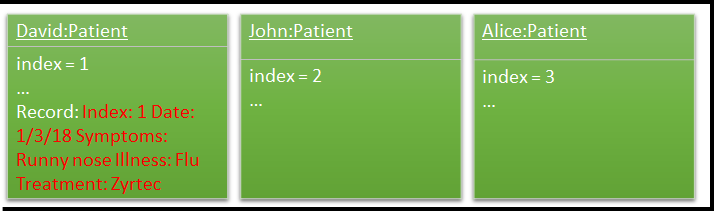
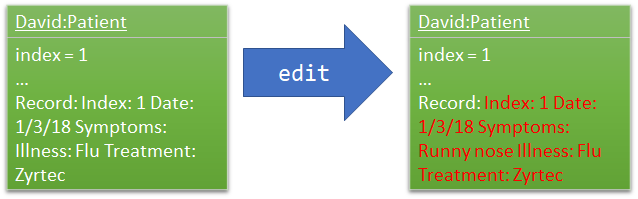
Rebuild pages at 6d4ba2cd5e8fa6bd3e3153dddd8a33125d8fd1f1

diff --git a/DeveloperGuide.html b/DeveloperGuide.html
@@ -873,7 +873,7 @@ edited with the edited patient.</p>
 </div>
 <div class="imageblock">
 <div class="content">
-<img src="images/Figure%203.2.1.1.PNG" alt="Figure 3.2.1.1" width="800">
+<img src="images/Figure%203.2.1.1.png" alt="Figure 3.2.1.1" width="800">
 </div>
 <div class="title">Figure 19. The current queue</div>
 </div>
@@ -887,7 +887,7 @@ which will be based on the user input. This new patient will be stored as the ed
 </div>
 <div class="imageblock">
 <div class="content">
-<img src="images/Figure%203.2.1.2.PNG" alt="Figure 3.2.1.2" width="800">
+<img src="images/Figure%203.2.1.2.png" alt="Figure 3.2.1.2" width="800">
 </div>
 <div class="title">Figure 20. The patient before and after editing</div>
 </div>
@@ -897,7 +897,7 @@ the new list will be as shown in the figure below.</p>
 </div>
 <div class="imageblock">
 <div class="content">
-<img src="images/Figure%203.2.1.3.PNG" alt="Figure 3.2.1.3" width="800">
+<img src="images/Figure%203.2.1.3.png" alt="Figure 3.2.1.3" width="800">
 </div>
 <div class="title">Figure 21. The queue with updated details</div>
 </div>
@@ -1291,23 +1291,30 @@ edited with the edited patient.</p>
 </div>
 <div class="imageblock">
 <div class="content">
-<img src="images/Figure%203.5.1.1.PNG" alt="Figure 3.5.1.1" width="800">
+<img src="images/Figure%203.5.1.1.png" alt="Figure 3.5.1.1" width="800">
 </div>
 <div class="title">Figure 32. The current queue</div>
 </div>
 <div class="paragraph">
-<p>The user now decides to edit the first record of the first person in the list.</p>
-</div>
-<div class="paragraph">
-<p><code>RecordCommand</code> will search for the first person in the list and store it as the person to be edited.
-<code>RecordCommand</code> will then create a new patient with the same attributes as the patient to be edited, except the for the first records
-which will be based on the user input. This new patient will be stored as the edited patient as shown in the figure below.</p>
+<p>The user now decides to edit the first record of the first person in the list. Upon entering the command, a new window will pop up with each field displaying the
+details of the patient&#8217;s current record as shown in the figure below.</p>
 </div>
 <div class="imageblock">
 <div class="content">
-<img src="images/Figure%203.5.1.2.PNG" alt="Figure 3.5.1.2" width="800">
+<img src="images/Figure%203.5.1.2.png" alt="Figure 3.5.1.2" width="800">
 </div>
-<div class="title">Figure 33. The patient before and after editing</div>
+<div class="title">Figure 33. The medical record window</div>
+</div>
+<div class="paragraph">
+<p>After the user hits the enter button or clicks on the confirm button, <code>RecordCommand</code> will search for the first person in the list and store it as the person to be edited.
+<code>RecordCommand</code> will then create a new patient with the same attributes as the patient to be edited, except for the first record
+which will be edited based on the user&#8217;s input into the medical record window. This new patient will be stored as the edited patient as shown in the figure below.</p>
+</div>
+<div class="imageblock">
+<div class="content">
+<img src="images/Figure%203.5.1.3.png" alt="Figure 3.5.1.3" width="800">
+</div>
+<div class="title">Figure 34. The patient before and after editing</div>
 </div>
 <div class="paragraph">
 <p><code>RecordCommand</code> will finally call the for the utility method updatePerson under <code>Model</code>, to replace the patient to be edited with the edited patient,
@@ -1315,9 +1322,9 @@ the new list will be as shown in the figure below.</p>
 </div>
 <div class="imageblock">
 <div class="content">
-<img src="images/Figure%203.5.1.3.PNG" alt="Figure 3.5.1.3" width="800">
+<img src="images/Figure%203.5.1.4.png" alt="Figure 3.5.1.4" width="800">
 </div>
-<div class="title">Figure 34. The queue with updated details</div>
+<div class="title">Figure 35. The queue with updated details</div>
 </div>
 </div>
 <div class="sect3">
@@ -1384,7 +1391,61 @@ each implementation and the pros and cons of each implementation:</p>
 <p>Pros: Will use less memory (no need to create new record object).</p>
 </li>
 <li>
-<p>Cons: Will require a method in Patient to update and verify validity of record. Violates Single Responsibility Principle and Separation of Concerns as <code>Patient</code> now needs to do two different things.</p>
+<p>Cons: Will require a method in Patient to update and verify validity of record. Violates Single Responsibility Principle and
+Separation of Concerns as <code>Patient</code> now needs to do two different things.</p>
+</li>
+</ul>
+</div>
+</li>
+</ul>
+</div>
+</div>
+<div class="sect4">
+<h5 id="aspect-implementation-of-medical-record-entries"><a class="link" href="#aspect-implementation-of-medical-record-entries">Aspect: Implementation of medical record entries</a></h5>
+<div class="ulist">
+<ul>
+<li>
+<p><strong>Alternative 1 (current choice):</strong> Create a new window to display the details of the existing medical record</p>
+<div class="ulist">
+<ul>
+<li>
+<p>Pros:</p>
+<div class="ulist">
+<ul>
+<li>
+<p>Allows user to view the rest of the system while typing into the medical record window.</p>
+</li>
+<li>
+<p>Allows user to have a larger field so that they can check for mistakes in a glance.</p>
+</li>
+</ul>
+</div>
+</li>
+<li>
+<p>Cons:</p>
+<div class="ulist">
+<ul>
+<li>
+<p>May introduce confusion due to  additional window being created.</p>
+</li>
+<li>
+<p>May result in slow speed and memory issues due to  additional window being created.</p>
+</li>
+</ul>
+</div>
+</li>
+</ul>
+</div>
+</li>
+<li>
+<p><strong>Alternative 2:</strong> Allow user to type in full medical record information in the command</p>
+<div class="ulist">
+<ul>
+<li>
+<p>Pros: Will use less memory (no need to create new window).</p>
+</li>
+<li>
+<p>Cons: Will require user to key in the whole medical record in one go (not feasible).</p>
 </li>
 </ul>
 </div>
@@ -1557,7 +1618,7 @@ Alternatively, you can download the AsciiDoc plugin for IntelliJ, which allows y
 <div class="content">
 <img src="images/chrome_save_as_pdf.png" alt="chrome save as pdf" width="300">
 </div>
-<div class="title">Figure 35. Saving documentation as PDF files in Chrome</div>
+<div class="title">Figure 36. Saving documentation as PDF files in Chrome</div>
 </div>
 </div>
 </div>
@@ -2609,7 +2670,7 @@ b. Require developers to download those libraries manually (this creates extra w
 </div>
 <div id="footer">
 <div id="footer-text">
-Last updated 2018-04-10 14:58:10 UTC
+Last updated 2018-04-10 15:02:21 UTC
 </div>
 </div>
 </body>

diff --git a/team/HungSiang.html b/team/HungSiang.html
@@ -245,23 +245,30 @@ edited with the edited patient.</p>
 </div>
 <div class="imageblock">
 <div class="content">
-<img src="../images/Figure%203.5.1.1.PNG" alt="Figure 3.5.1.1" width="800">
+<img src="../images/Figure%203.5.1.1.png" alt="Figure 3.5.1.1" width="800">
 </div>
 <div class="title">Figure 1. The current queue</div>
 </div>
 <div class="paragraph">
-<p>The user now decides to edit the first record of the first person in the list.</p>
-</div>
-<div class="paragraph">
-<p><code>RecordCommand</code> will search for the first person in the list and store it as the person to be edited.
-<code>RecordCommand</code> will then create a new patient with the same attributes as the patient to be edited, except the for the first records
-which will be based on the user input. This new patient will be stored as the edited patient as shown in the figure below.</p>
+<p>The user now decides to edit the first record of the first person in the list. Upon entering the command, a new window will pop up with each field displaying the
+details of the patient&#8217;s current record as shown in the figure below.</p>
 </div>
 <div class="imageblock">
 <div class="content">
-<img src="../images/Figure%203.5.1.2.PNG" alt="Figure 3.5.1.2" width="800">
+<img src="../images/Figure%203.5.1.2.png" alt="Figure 3.5.1.2" width="800">
 </div>
-<div class="title">Figure 2. The patient before and after editing</div>
+<div class="title">Figure 2. The medical record window</div>
+</div>
+<div class="paragraph">
+<p>After the user hits the enter button or clicks on the confirm button, <code>RecordCommand</code> will search for the first person in the list and store it as the person to be edited.
+<code>RecordCommand</code> will then create a new patient with the same attributes as the patient to be edited, except for the first record
+which will be edited based on the user&#8217;s input into the medical record window. This new patient will be stored as the edited patient as shown in the figure below.</p>
+</div>
+<div class="imageblock">
+<div class="content">
+<img src="../images/Figure%203.5.1.3.png" alt="Figure 3.5.1.3" width="800">
+</div>
+<div class="title">Figure 3. The patient before and after editing</div>
 </div>
 <div class="paragraph">
 <p><code>RecordCommand</code> will finally call the for the utility method updatePerson under <code>Model</code>, to replace the patient to be edited with the edited patient,
@@ -269,9 +276,9 @@ the new list will be as shown in the figure below.</p>
 </div>
 <div class="imageblock">
 <div class="content">
-<img src="../images/Figure%203.5.1.3.PNG" alt="Figure 3.5.1.3" width="800">
+<img src="../images/Figure%203.5.1.4.png" alt="Figure 3.5.1.4" width="800">
 </div>
-<div class="title">Figure 3. The queue with updated details</div>
+<div class="title">Figure 4. The queue with updated details</div>
 </div>
 </div>
 <div class="sect3">
@@ -338,7 +345,61 @@ each implementation and the pros and cons of each implementation:</p>
 <p>Pros: Will use less memory (no need to create new record object).</p>
 </li>
 <li>
-<p>Cons: Will require a method in Patient to update and verify validity of record. Violates Single Responsibility Principle and Separation of Concerns as <code>Patient</code> now needs to do two different things.</p>
+<p>Cons: Will require a method in Patient to update and verify validity of record. Violates Single Responsibility Principle and
+Separation of Concerns as <code>Patient</code> now needs to do two different things.</p>
+</li>
+</ul>
+</div>
+</li>
+</ul>
+</div>
+</div>
+<div class="sect4">
+<h5 id="aspect-implementation-of-medical-record-entries"><a class="link" href="#aspect-implementation-of-medical-record-entries">Aspect: Implementation of medical record entries</a></h5>
+<div class="ulist">
+<ul>
+<li>
+<p><strong>Alternative 1 (current choice):</strong> Create a new window to display the details of the existing medical record</p>
+<div class="ulist">
+<ul>
+<li>
+<p>Pros:</p>
+<div class="ulist">
+<ul>
+<li>
+<p>Allows user to view the rest of the system while typing into the medical record window.</p>
+</li>
+<li>
+<p>Allows user to have a larger field so that they can check for mistakes in a glance.</p>
+</li>
+</ul>
+</div>
+</li>
+<li>
+<p>Cons:</p>
+<div class="ulist">
+<ul>
+<li>
+<p>May introduce confusion due to  additional window being created.</p>
+</li>
+<li>
+<p>May result in slow speed and memory issues due to  additional window being created.</p>
+</li>
+</ul>
+</div>
+</li>
+</ul>
+</div>
+</li>
+<li>
+<p><strong>Alternative 2:</strong> Allow user to type in full medical record information in the command</p>
+<div class="ulist">
+<ul>
+<li>
+<p>Pros: Will use less memory (no need to create new window).</p>
+</li>
+<li>
+<p>Cons: Will require user to key in the whole medical record in one go (not feasible).</p>
 </li>
 </ul>
 </div>
@@ -353,7 +414,7 @@ each implementation and the pros and cons of each implementation:</p>
 </div>
 <div id="footer">
 <div id="footer-text">
-Last updated 2018-04-10 14:58:10 UTC
+Last updated 2018-04-10 15:02:21 UTC
 </div>
 </div>
 </body>

diff --git a/LearningOutcomes.html b/LearningOutcomes.html
@@ -561,7 +561,7 @@ class gives some examples of how to use <em>Equivalence Partitions</em>, <em>Bou
 </div>
 <div id="footer">
 <div id="footer-text">
-Last updated 2018-04-10 14:58:10 UTC
+Last updated 2018-04-10 15:02:21 UTC
 </div>
 </div>
 </body>

diff --git a/UsingCoveralls.html b/UsingCoveralls.html
@@ -115,7 +115,7 @@ If you have not set up Travis CI, see <a href="UsingTravis.html">UsingTravis.ado
 </div>
 <div id="footer">
 <div id="footer-text">
-Last updated 2018-04-10 14:58:10 UTC
+Last updated 2018-04-10 15:02:21 UTC
 </div>
 </div>
 </body>

diff --git a/UsingGradle.html b/UsingGradle.html
@@ -261,7 +261,7 @@ See <code>build.gradle</code> &#8594; <code>allprojects</code> &#8594; <code>dep
 </div>
 <div id="footer">
 <div id="footer-text">
-Last updated 2018-04-10 14:58:10 UTC
+Last updated 2018-04-10 15:02:21 UTC
 </div>
 </div>
 </body>

diff --git a/UsingNetlify.html b/UsingNetlify.html
@@ -142,7 +142,7 @@ The publish directory is the directory in which the built HTML documentation res
 </div>
 <div id="footer">
 <div id="footer-text">
-Last updated 2018-04-10 14:58:10 UTC
+Last updated 2018-04-10 15:02:21 UTC
 </div>
 </div>
 </body>

diff --git a/team/johndoe.html b/team/johndoe.html
@@ -563,7 +563,7 @@ If the <code>redoStack</code> is empty, then there are no other commands left to
 </div>
 <div id="footer">
 <div id="footer-text">
-Last updated 2018-04-10 14:58:10 UTC
+Last updated 2018-04-10 15:02:21 UTC
 </div>
 </div>
 </body>

diff --git a/UsingTravis.html b/UsingTravis.html
@@ -299,7 +299,7 @@ Suggested change: Remove the codacy badge from <code>README</code>.</p>
 </div>
 <div id="footer">
 <div id="footer-text">
-Last updated 2018-04-10 14:58:10 UTC
+Last updated 2018-04-10 15:02:21 UTC
 </div>
 </div>
 </body>

diff --git a/team/cxingkai.html b/team/cxingkai.html
@@ -232,7 +232,7 @@ each implementation and the pros and cons of each implementation:</p>
 </div>
 <div id="footer">
 <div id="footer-text">
-Last updated 2018-04-10 14:58:10 UTC
+Last updated 2018-04-10 15:02:21 UTC
 </div>
 </div>
 </body>

diff --git a/UserGuide.html b/UserGuide.html
@@ -1054,7 +1054,7 @@ e.g.<code>delappt betsy 2</code> or <code>da betsy 2</code></p>
 </div>
 <div id="footer">
 <div id="footer-text">
-Last updated 2018-04-10 14:58:10 UTC
+Last updated 2018-04-10 15:02:21 UTC
 </div>
 </div>
 </body>

diff --git a/UsingCheckstyle.html b/UsingCheckstyle.html
@@ -103,7 +103,7 @@ Restart the IDE to complete the installation.</p>
 </div>
 <div id="footer">
 <div id="footer-text">
-Last updated 2018-04-10 14:58:10 UTC
+Last updated 2018-04-10 15:02:21 UTC
 </div>
 </div>
 </body>

diff --git a/TestDocument.html b/TestDocument.html
@@ -178,7 +178,7 @@ This should be on a new line.</p>
 </div>
 <div id="footer">
 <div id="footer-text">
-Last updated 2018-04-10 14:58:10 UTC
+Last updated 2018-04-10 15:02:21 UTC
 </div>
 </div>
 </body>
